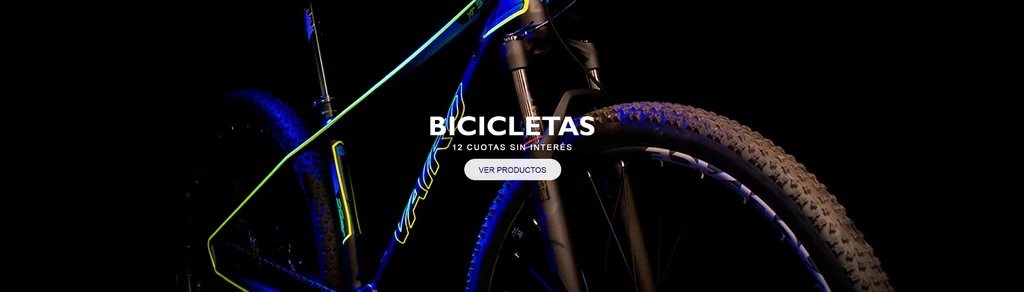
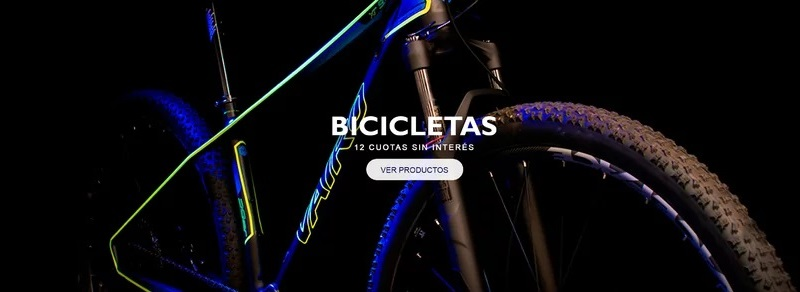
agregandoimg

Changed region(s): [[0.125, 0.0, 1.0, 1.0], [0.25, 0.0308, 0.3125, 0.1541], [0.1562, 0.6781, 0.1875, 0.7705]]

diff --git a/index.html b/index.html
@@ -41,7 +41,7 @@
         </div>
     </nav>
 	<header class="header">
-		<div class="container-fluid">
+		
 			<div id="carouselExampleControls" class="carousel slide" data-bs-ride="carousel">
 				<div class="carousel-inner">
 					<div class="carousel-item active">
@@ -75,7 +75,7 @@
 					<span class="visually-hidden">siguiente</span>
 				</button>	
 			</div>
-		</div>
+		
 	</header>
 	<div class="card__container">
 		<h1 class="title text-center p-4">BICICLETERIA BIKESTORE</h1>
